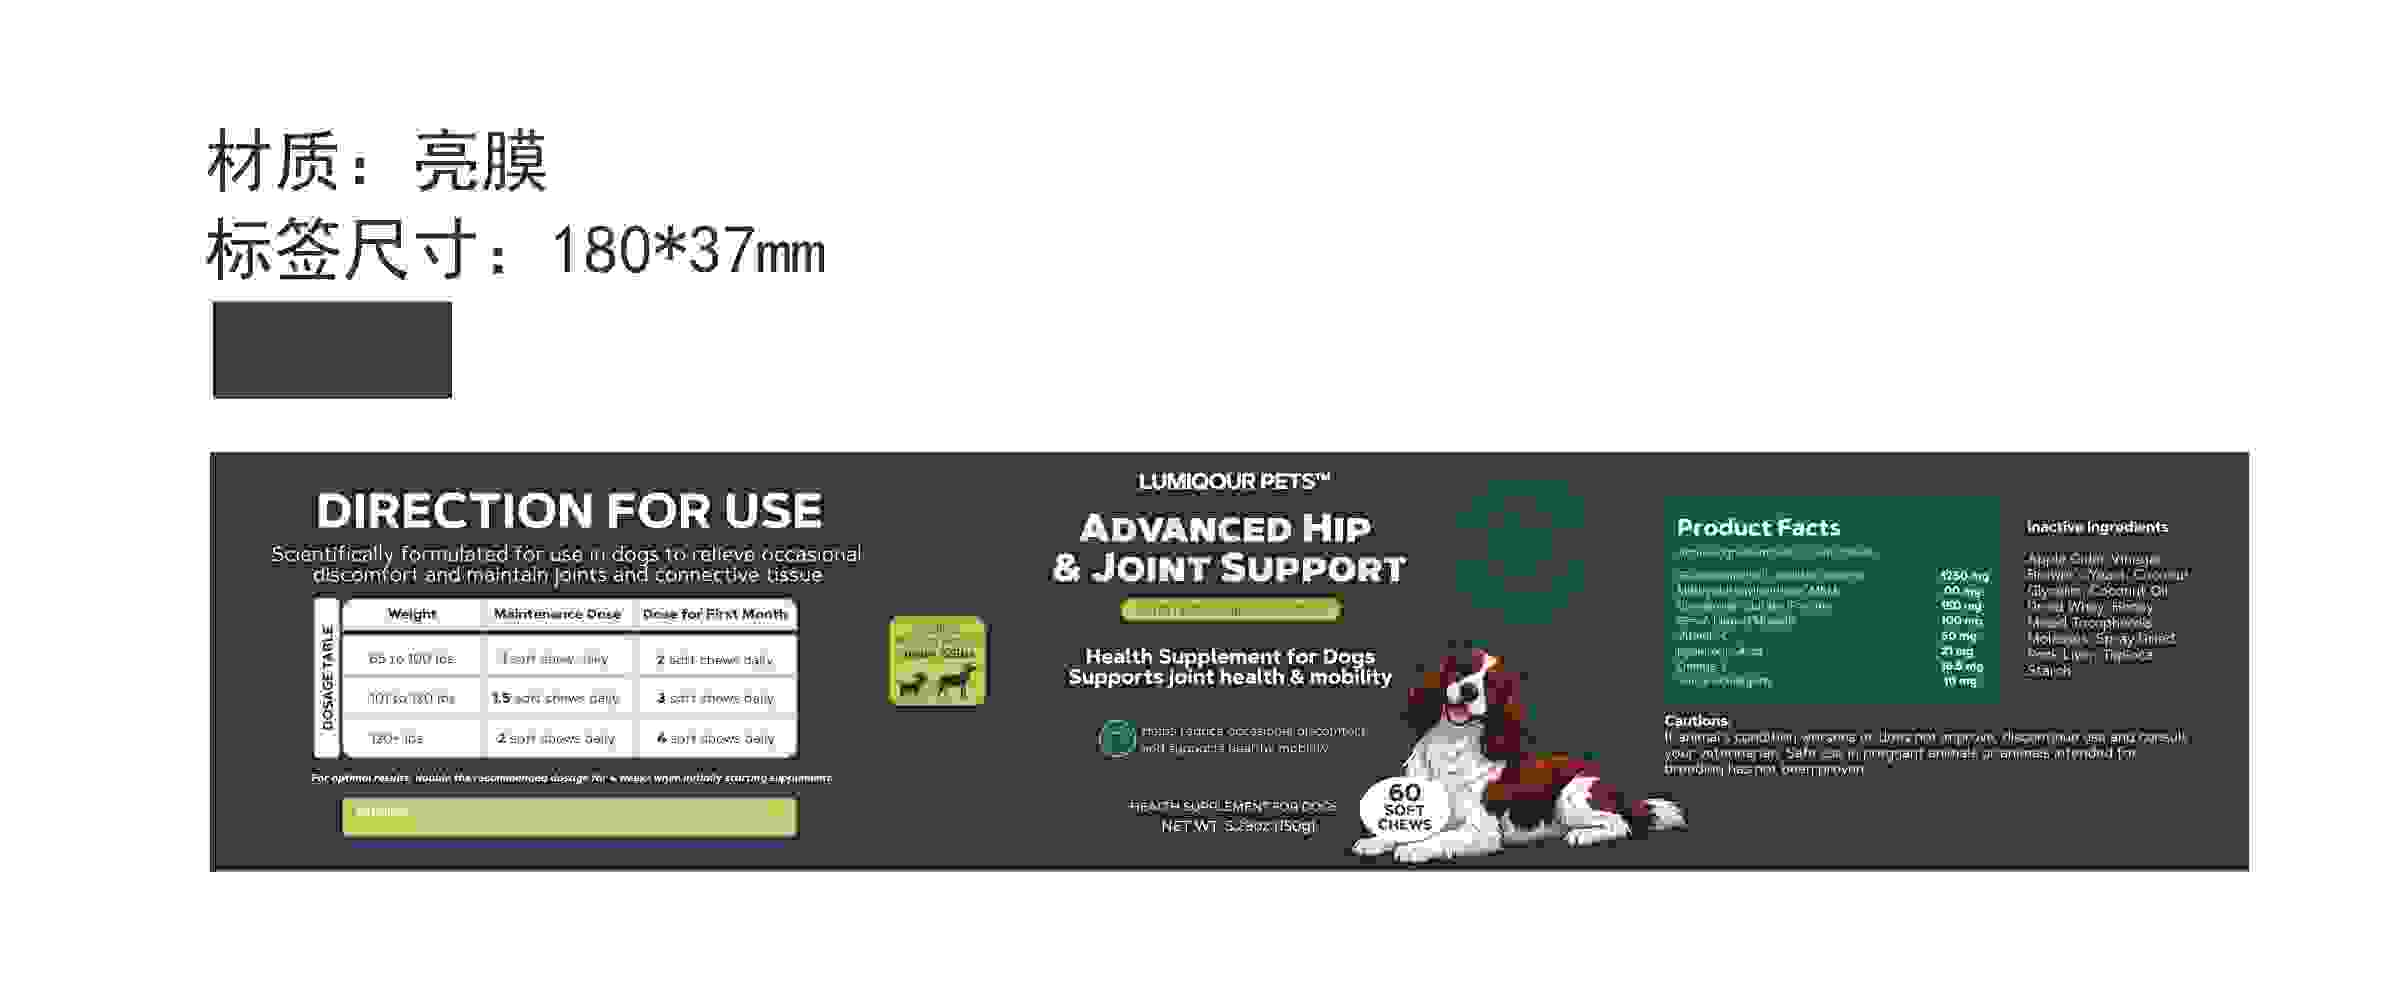
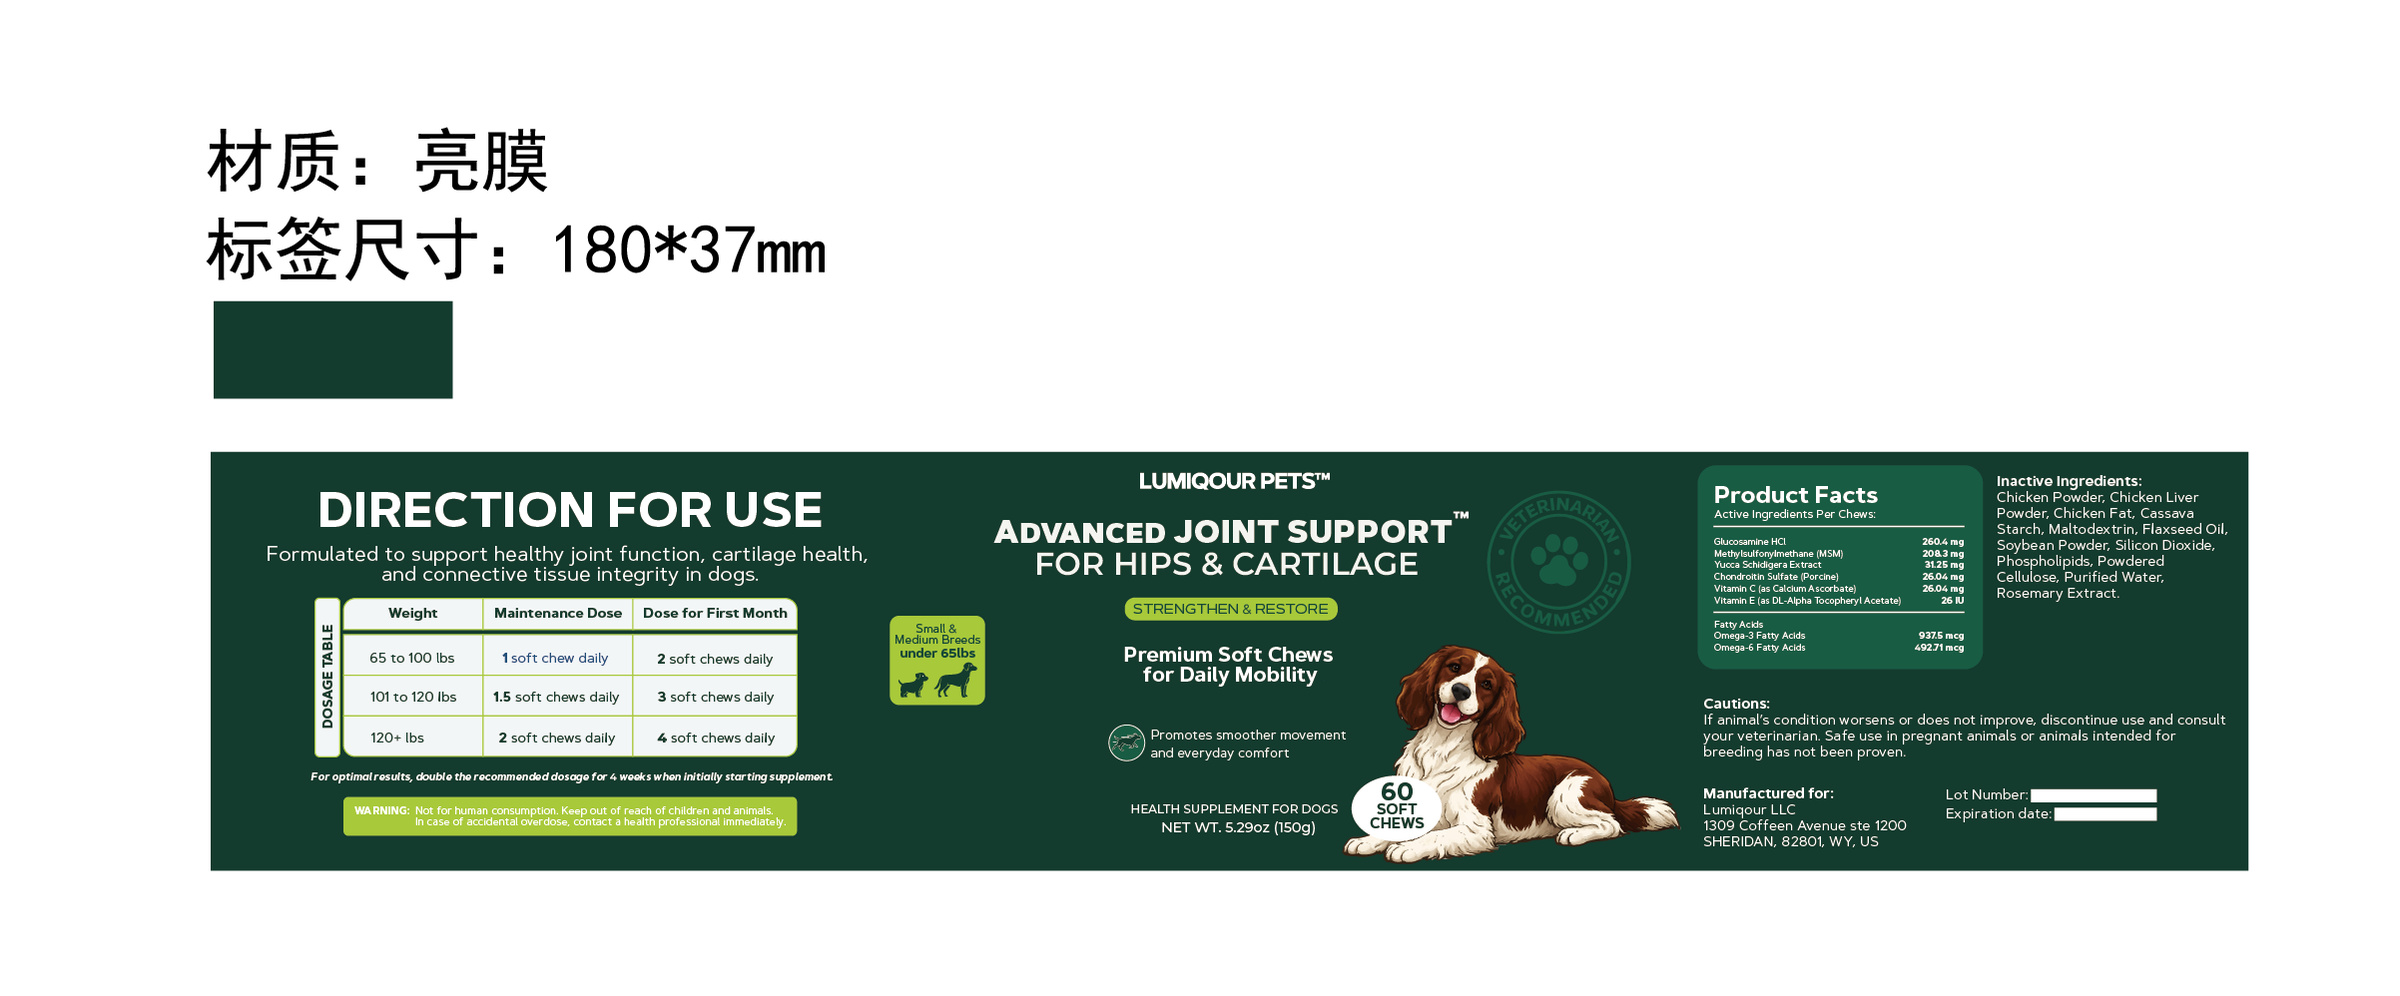
Replace low quality packaging previews

diff --git a/work/product-images-packaging-label-design/index.html b/work/product-images-packaging-label-design/index.html
@@ -69,7 +69,7 @@ html,body{overflow-x:hidden}
       <div class="pp-kicker">// Ecommerce / Product Creative</div>
       <h1 class="pp-title">Product Images,<br><em>Packaging &amp; Label Design</em></h1>
       <p class="pp-sub">A focused collection of ecommerce product imagery, packaging directions, and label design visuals for supplement, pet, wellness, and consumer product brands.</p>
-      <div class="pp-tags"><span>65 Web Images</span><span>7 Brands</span><span>Packaging</span><span>Label Design</span></div>
+      <div class="pp-tags"><span>60 Web Images</span><span>7 Brands</span><span>Packaging</span><span>Label Design</span></div>
     </div>
     <div class="pp-collage" aria-label="Product image and packaging design preview">
       <img src="assets/projects/product-images-packaging-label-design/curosleep/04.jpg?v=20260512-product-packaging" alt="Curosleep product image design preview">
@@ -86,7 +86,7 @@ html,body{overflow-x:hidden}
           <div class="pp-num">01 / Gallery</div>
           <h2>Product-ready<br><em>brand visuals.</em></h2>
         </div>
-        <p>These pieces show how I build ecommerce visuals beyond ad design: product render layouts, benefit-led image systems, packaging mockups, and converted PDF label artwork that can support storefronts, campaigns, and product launches.</p>
+        <p>These pieces show how I build ecommerce visuals beyond ad design: product render layouts, benefit-led image systems, packaging mockups, and high-resolution label artwork that can support storefronts, campaigns, and product launches.</p>
       </div>
       <div id="pp-gallery"></div>
     </div>
@@ -115,14 +115,14 @@ const assetBase = 'assets/projects/product-images-packaging-label-design/';
 const collections = [
   { no:'01', slug:'curosleep', name:'Curosleep', count:9, note:'Sleep support product images built with clean supplement positioning and benefit-focused ecommerce visuals.' },
   { no:'02', slug:'fuel-good', name:'Fuel Good', count:5, note:'Packaging and product image directions for a bright consumer wellness brand.', titles:{'05':'Fuel Good Packaging Label Design'} },
-  { no:'03', slug:'lumiquor', name:'Lumiquor', count:12, note:'Pet supplement product images and label-led visuals across multiple product variants.', titles:{'08':'Lumiquor Hip & Joint Label Design','09':'Lumiquor Salmon Oil Label Design','10':'Lumiquor Daily 8 Label Design','11':'Lumiquor Pet Dental Label Design','12':'Lumiquor Turkey Tail Label Design'} },
+  { no:'03', slug:'lumiquor', name:'Lumiquor', count:11, note:'Pet supplement product images and label-led visuals across multiple product variants.', titles:{'08':'Lumiquor Hip & Joint Label Design','09':'Lumiquor Salmon Oil Label Design','10':'Lumiquor Daily 8 Label Design','11':'Lumiquor Pet Dental Label Design'} },
   { no:'04', slug:'mb1', name:'MB1', count:13, note:'Product image set for supplement marketing, storefront education, and offer presentation.' },
   { no:'05', slug:'mr-bugz', name:'Mr Bugz', count:7, note:'Bold pest-control product visuals with packaging-forward compositions and retail-ready clarity.' },
   { no:'06', slug:'puproot', name:'Puproot', count:6, note:'Pet product packaging and ecommerce image set with clean product storytelling.', titles:{'06':'Puproot 60 Chews Packaging Label'} },
-  { no:'07', slug:'sofyre', name:'Sofyre', count:13, note:'Packaging and product image designs for repellents and consumer safety products.', titles:{'08':'Sofyre Mosquito Patch Packaging Front','09':'Sofyre Mosquito Patch Packaging Back','10':'Sofyre Repellent Packaging Front','11':'Sofyre Repellent Packaging Back','12':'Sofyre Spider Repellent Packaging Front','13':'Sofyre Spider Repellent Packaging Back'} }
+  { no:'07', slug:'sofyre', name:'Sofyre', count:9, note:'Packaging and product image designs for repellents and consumer safety products.', titles:{'08':'Sofyre Packaging Design Front','09':'Sofyre Packaging Design Back'} }
 ];
 const gallery = document.getElementById('pp-gallery');
-const version = '20260512-product-packaging-labels';
+const version = '20260512-packaging-refresh-v2';
 function pad(n){return String(n).padStart(2,'0')}
 gallery.innerHTML = collections.map(brand => `
   <section class="pp-brand" id="${brand.slug}">
